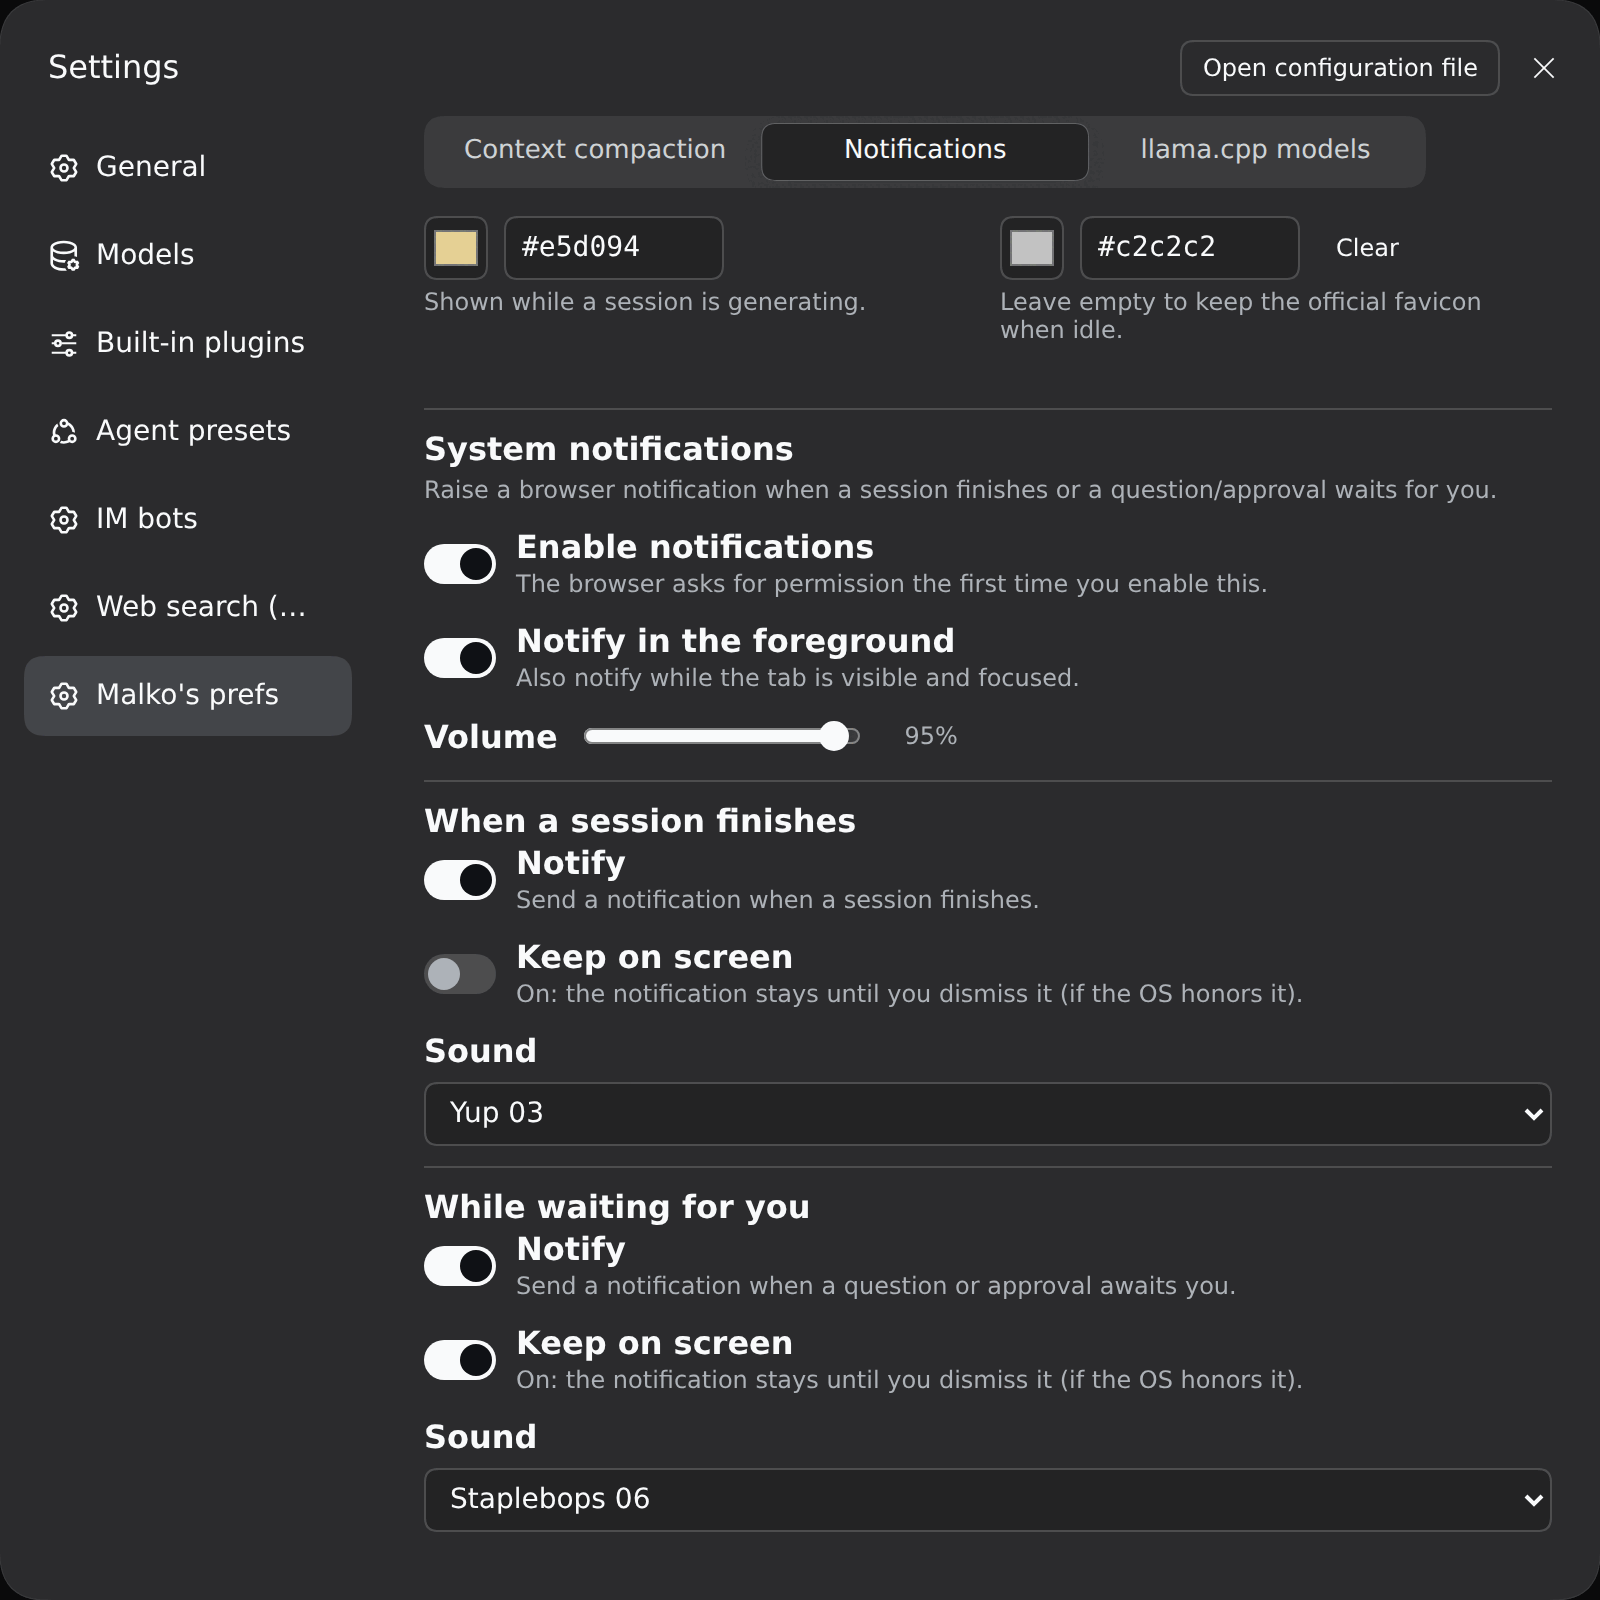
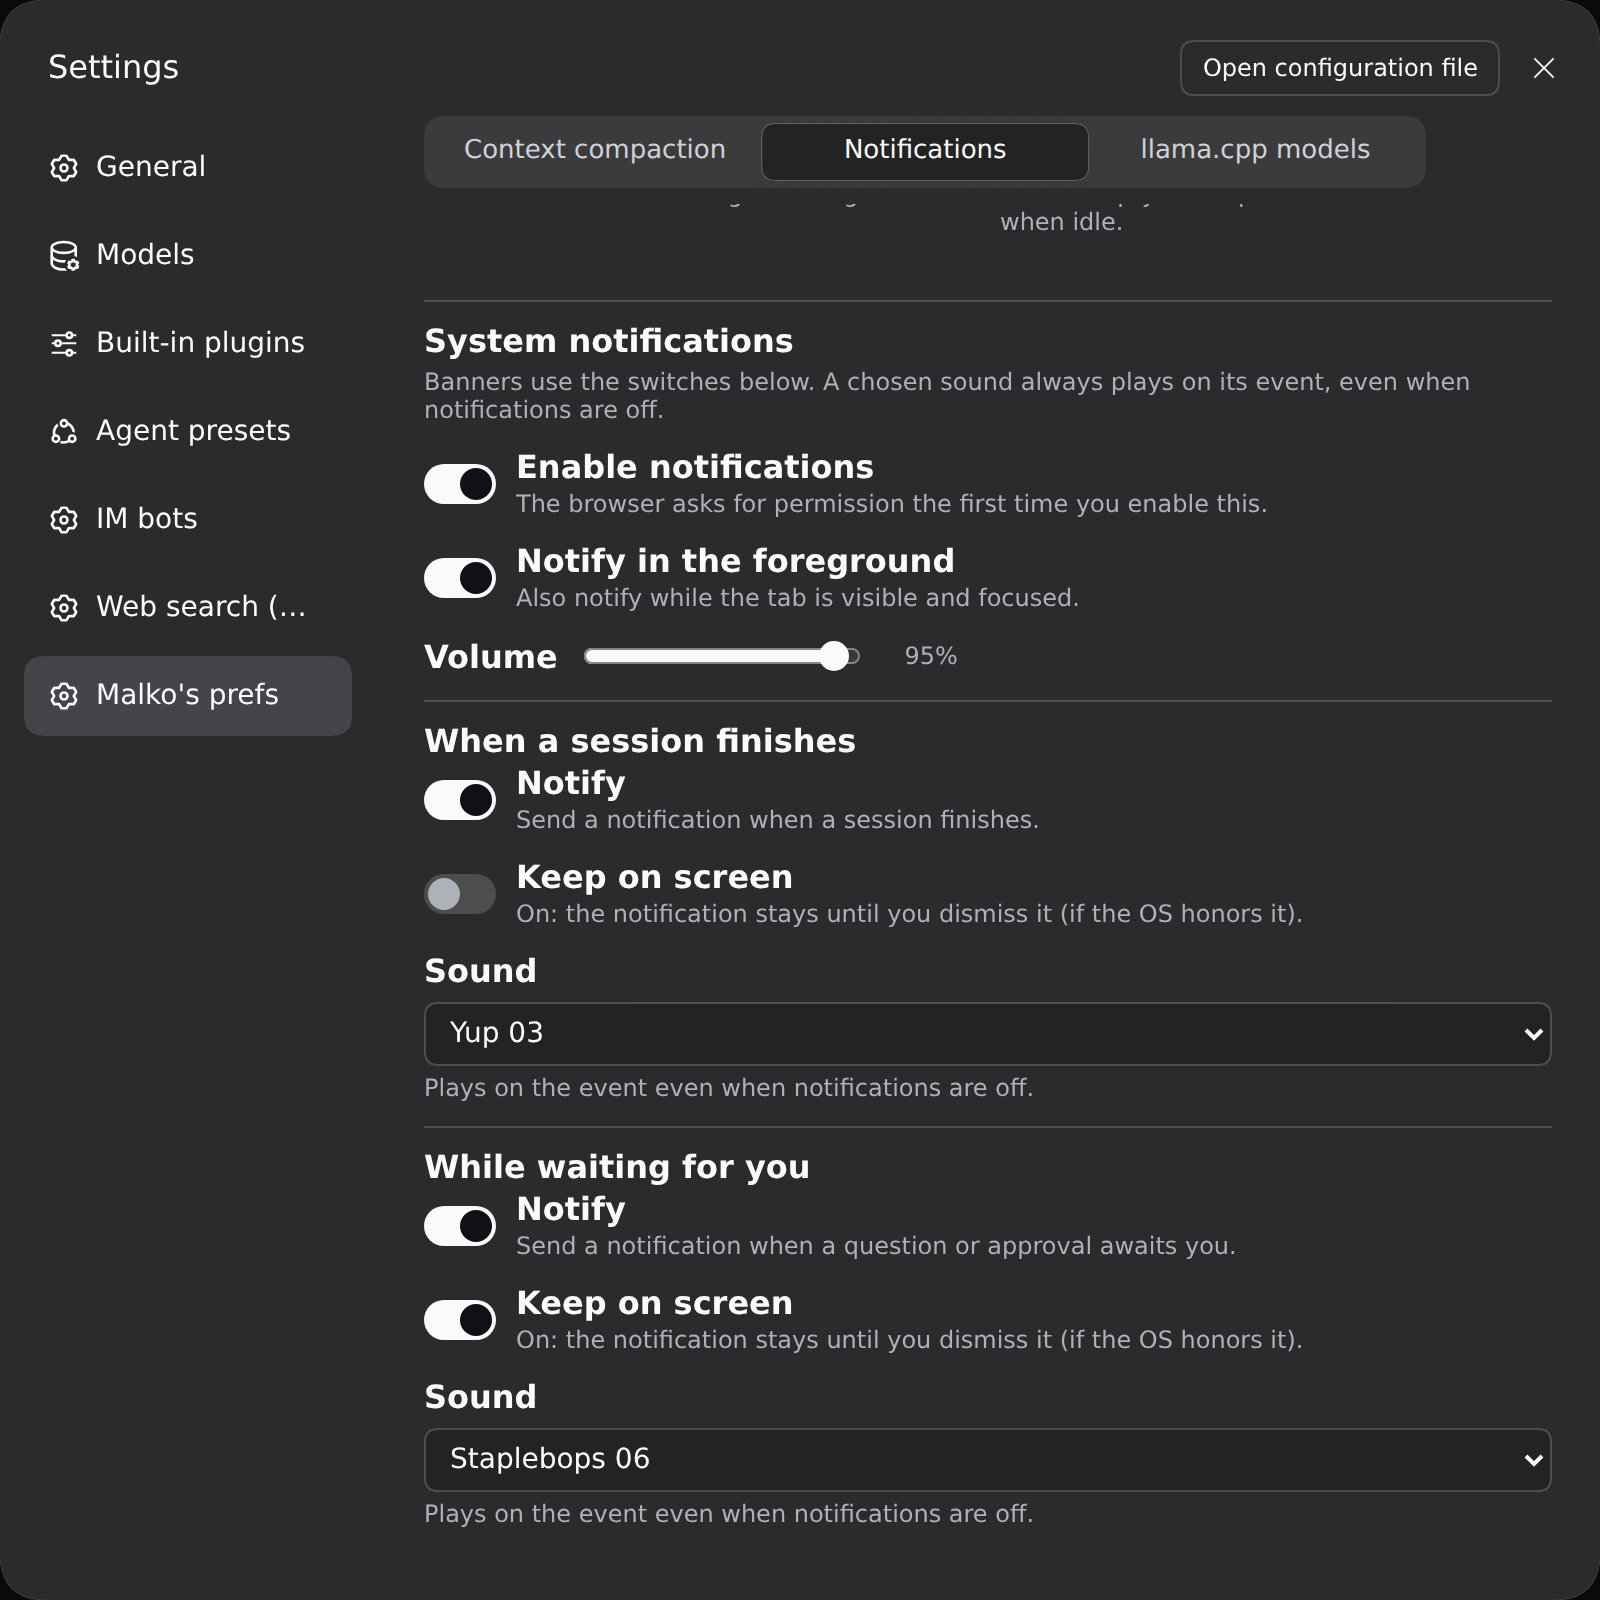
📝 Document the decoupled sound and refresh notification screenshots

diff --git a/README.md b/README.md
@@ -162,21 +162,25 @@ Priority is amber > working > green > idle, and sub-agent sessions are ignored.
 All icon links are repainted together (DSH ships a dark and a light favicon
 selected by `prefers-color-scheme`).
 
-**System notifications** — a browser notification on session completion or on a
-new pending interaction, with the session name as the title. Defaults to only
-firing when the tab is not in the foreground (visible **and** focused); enable
-**Notify in the foreground** to also fire while you watch, and one of the two
-per-type **Keep on screen** toggles (finished / waiting) to stop that
-notification from auto-hiding. Enabling notifications asks
-the browser for permission once.
+**System notifications** — settings are grouped by notification type. One
+global master switch (**Enable notifications**, opt-in; the browser asks for
+permission once), one global **Notify in the foreground** (off = only fire when
+the tab is not visible and focused) and one global **Volume**. Then one group
+per type — **When a session finishes** and **While waiting for you** (question /
+approval / plan review) — each with its own **Notify** enable, **Keep on screen**
+(stay until dismissed) and sound.
 
-**Sound** — two selectors (finished / waiting), each defaulting to **No sound**.
-The list is: `No sound`, two built-in synthesized chimes (`Chime Up` / `Chime
-Down`, no asset needed) and 45 bundled opencode sounds (see
-[`assets/audio/README.md`](assets/audio/README.md)); picking one previews it and
-the Host serves the mp3s at `/malko-prefs-sounds/<id>.mp3`. If that route is
-unavailable the player falls back to a chime — but browsers may block audio
-until you have interacted with the page at least once.
+**Sound** (per type) — each group's selector defaults to **No sound** (both
+defaults are silent on a fresh install). The list is: `No sound`, two built-in
+synthesized chimes (`Chime Up` / `Chime Down`, no asset needed) and 45 bundled
+opencode sounds (see [`assets/audio/README.md`](assets/audio/README.md)); picking
+one previews it and the Host serves the mp3s at `/malko-prefs-sounds/<id>.mp3`.
+If that route is unavailable the player falls back to a chime — but browsers may
+block audio until you have interacted with the page at least once.
+
+The sound is **decoupled from the banner**: once a sound is chosen for a type it
+plays on that event (completion / waiting) even when notifications — or that
+type — are disabled; with **No sound** nothing plays.
 
 ![Sound settings](docs/images/settings-notifications-sounds.png)
 
